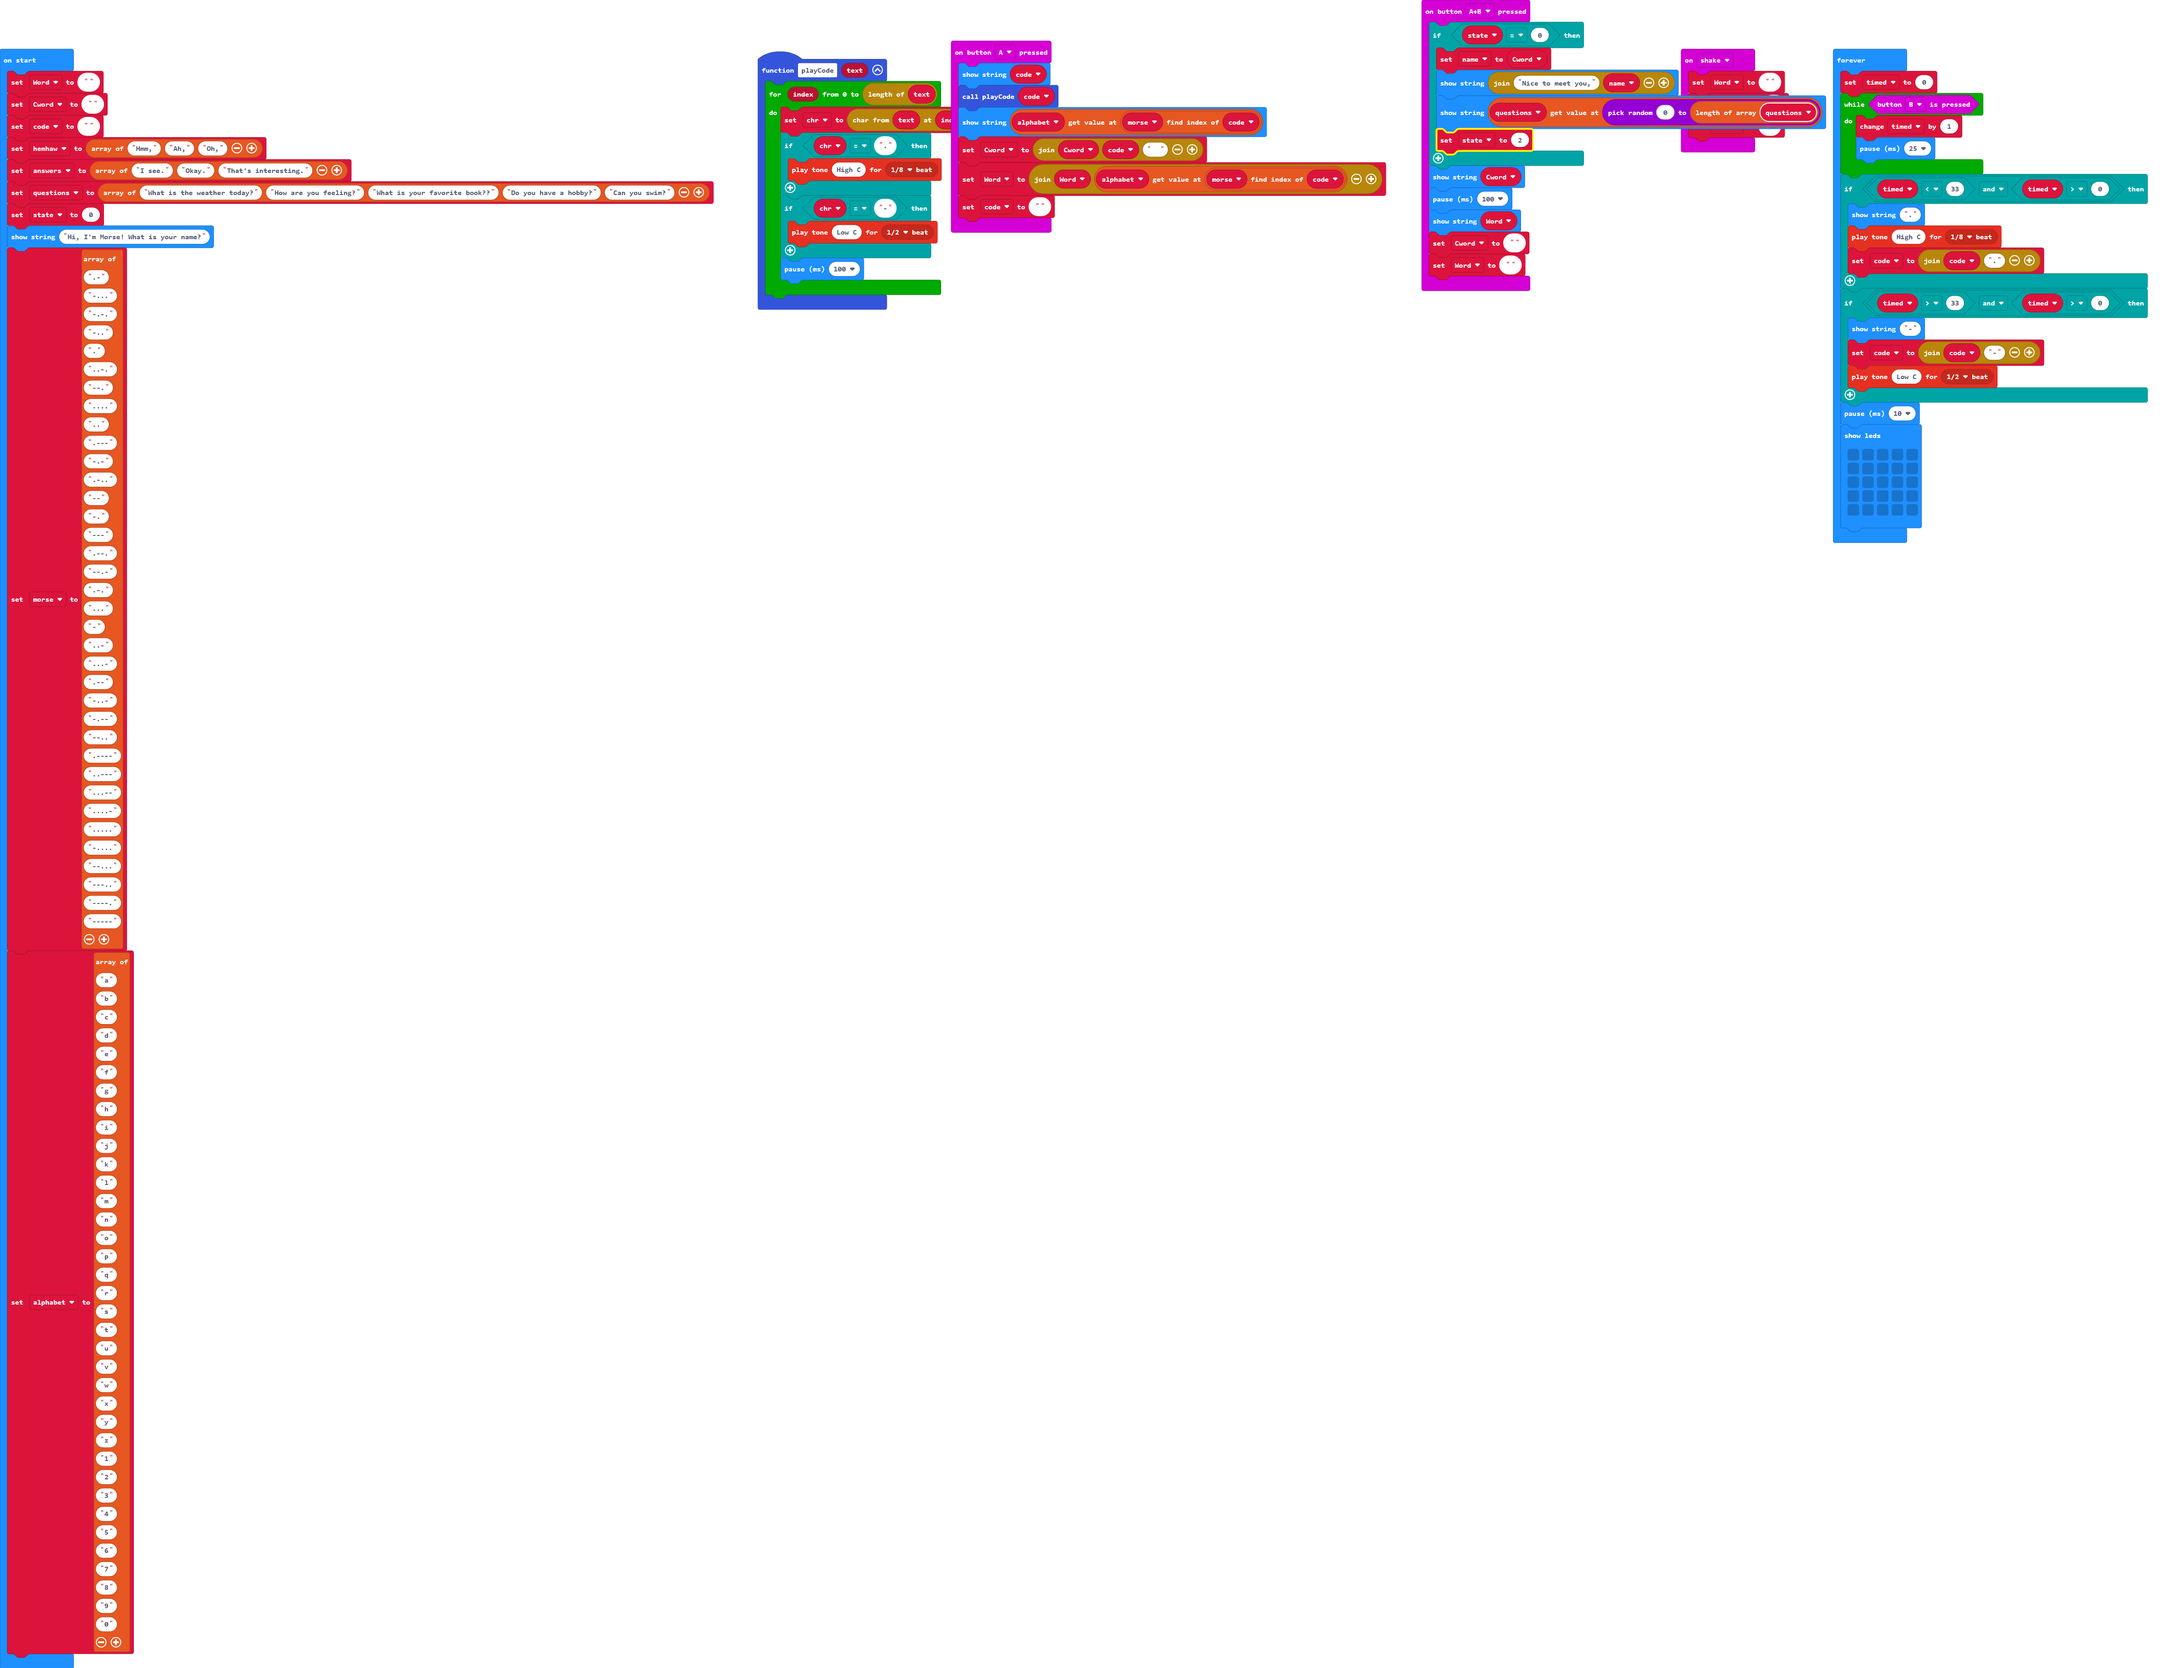
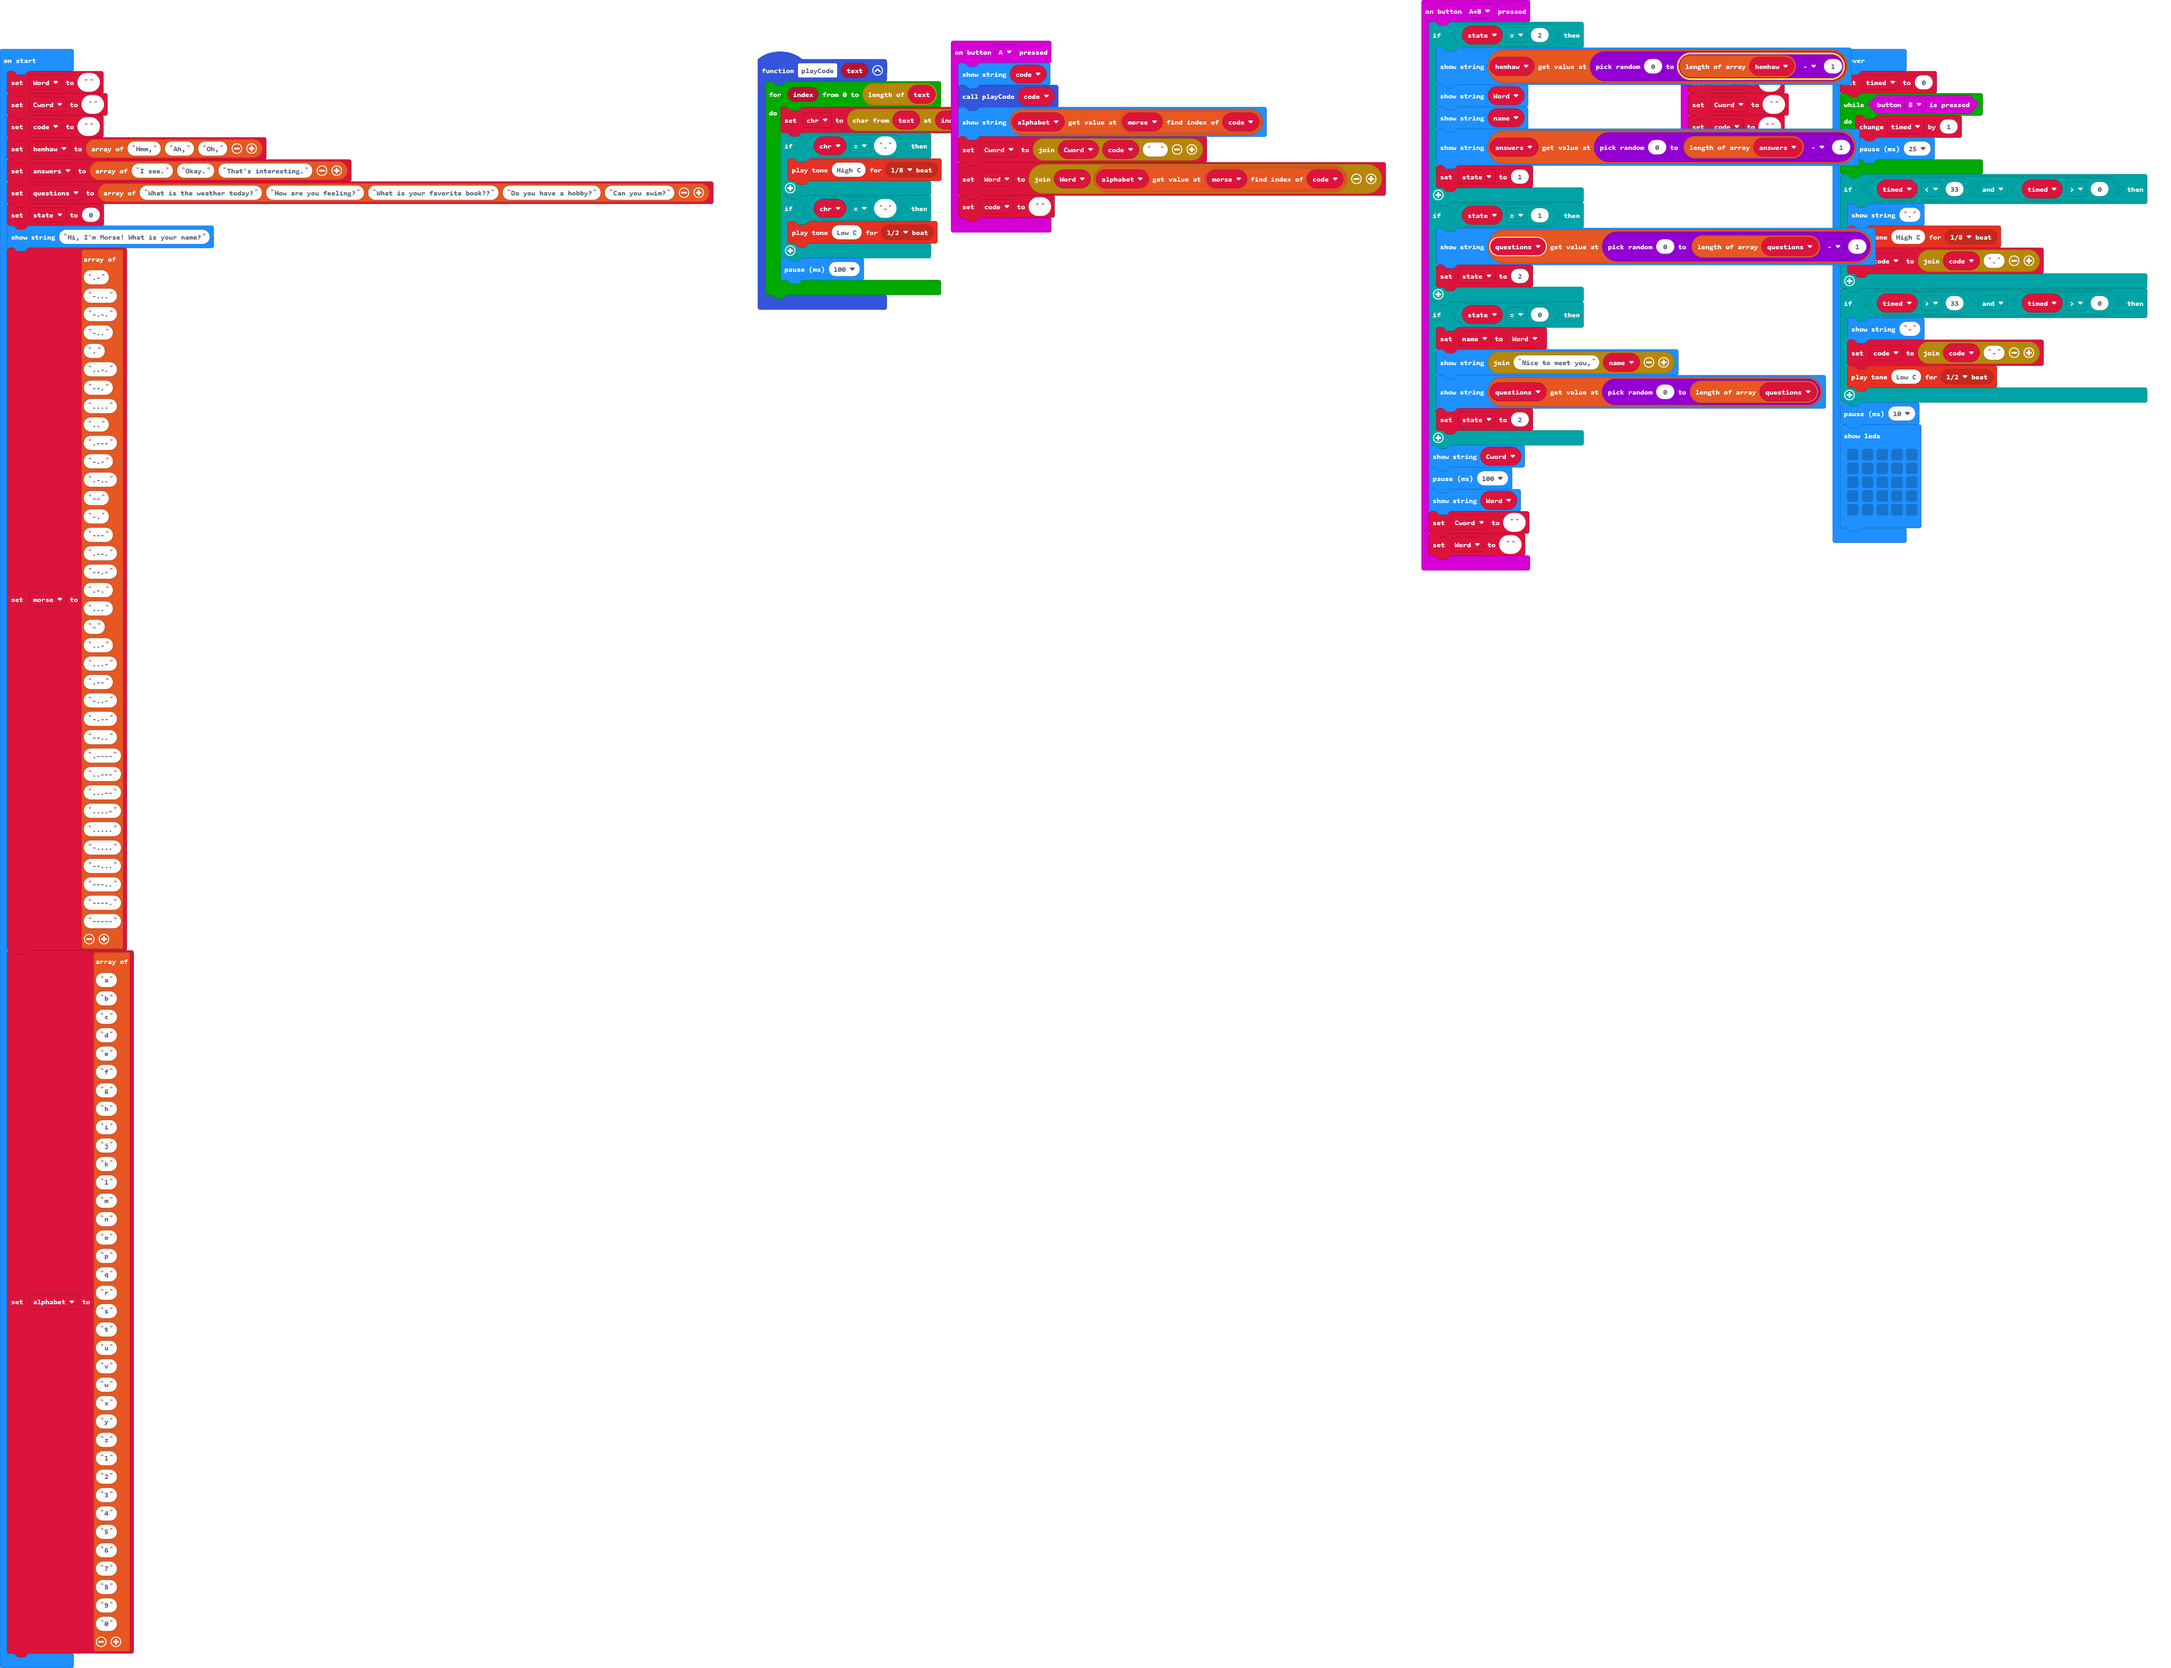
Update main.blocks, main.ts

Changed region(s): [[0.654, 0.0, 0.9032, 0.3428], [0.1246, 0.0935, 0.1557, 0.1247], [0.0, 0.9972, 0.0311, 1.0]]

diff --git a/main.ts b/main.ts
@@ -19,8 +19,19 @@ input.onButtonPressed(Button.A, function () {
     code = ""
 })
 input.onButtonPressed(Button.AB, function () {
+    if (state == 2) {
+        basic.showString("" + (hemhaw[randint(0, hemhaw.length - 1)]))
+        basic.showString(Word)
+        basic.showString(name)
+        basic.showString("" + (answers[randint(0, answers.length - 1)]))
+        state = 1
+    }
+    if (state == 1) {
+        basic.showString("" + (questions[randint(0, questions.length - 1)]))
+        state = 2
+    }
     if (state == 0) {
-        name = Cword
+        name = Word
         basic.showString("Nice to meet you," + name)
         basic.showString("" + (questions[randint(0, questions.length)]))
         state = 2
@@ -43,14 +54,16 @@ let alphabet: string[] = []
 let morse: string[] = []
 let state = 0
 let questions: string[] = []
+let answers: string[] = []
+let hemhaw: string[] = []
 let code = ""
 let Cword = ""
 let Word = ""
 Word = ""
 Cword = ""
 code = ""
-let hemhaw = ["Hmm,", "Ah,", "Oh,"]
-let answers = ["I see.", "Okay.", "That's interesting."]
+hemhaw = ["Hmm,", "Ah,", "Oh,"]
+answers = ["I see.", "Okay.", "That's interesting."]
 questions = ["What is the weather today?", "How are you feeling?", "What is your favorite book??", "Do you have a hobby?", "Can you swim?"]
 state = 0
 basic.showString("Hi, I'm Morse! What is your name?")
